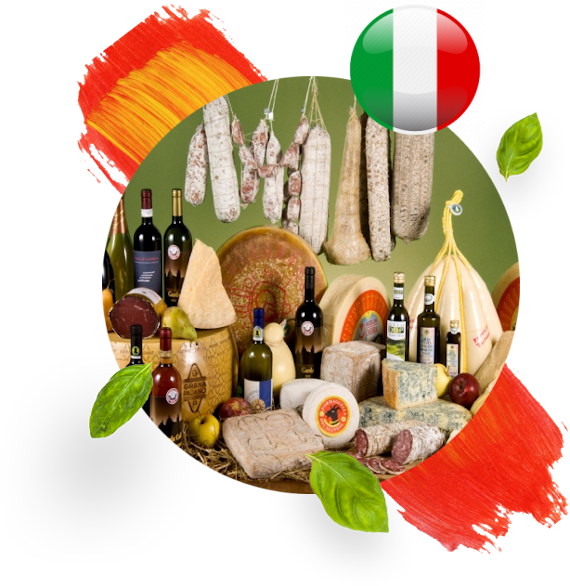
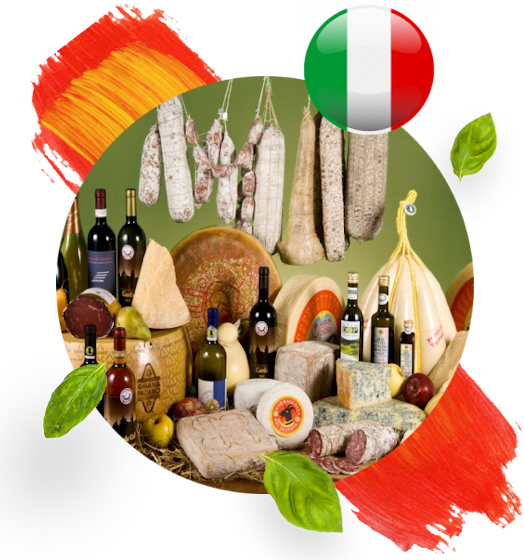
11/10/21

diff --git a/index.html b/index.html
@@ -826,7 +826,7 @@ style="z-index:12;"
 		<div class="container">
 			<div class="or-about-content-1 position-relative">
 				<div class="or-about-img-1 position-absolute">
-					<img src="assets/images/about-us/about-us.png" alt="">
+					<img src="assets/images/about-us/about-us-2.png" alt="">
 				</div>
 				<div class="or-about-text-area  d-flex justify-content-end">
 					<div class="or-about-img-text-wrapper-1">

diff --git a/assets/css/style.css b/assets/css/style.css
@@ -737,6 +737,11 @@ select:visited {
     font-size: 40px;
   }
 }
+@media (max-width: 400px) {
+  .organio-header-section.header-style-one .site-logo .site-name {
+    font-size: 30px;
+  }
+}
 @media (max-width: 1150px) {
   .organio-header-section.header-style-one .site-logo {
     width: 400px;

diff --git a/assets/scss/_header.scss b/assets/scss/_header.scss
@@ -147,6 +147,10 @@
 				@include desktop {
 					font-size: 40px;
 				}
+				@include mobile-xs {
+					font-size: 30px;
+				}
+
 			}
 			@include desktop {
 				width: 400px;
